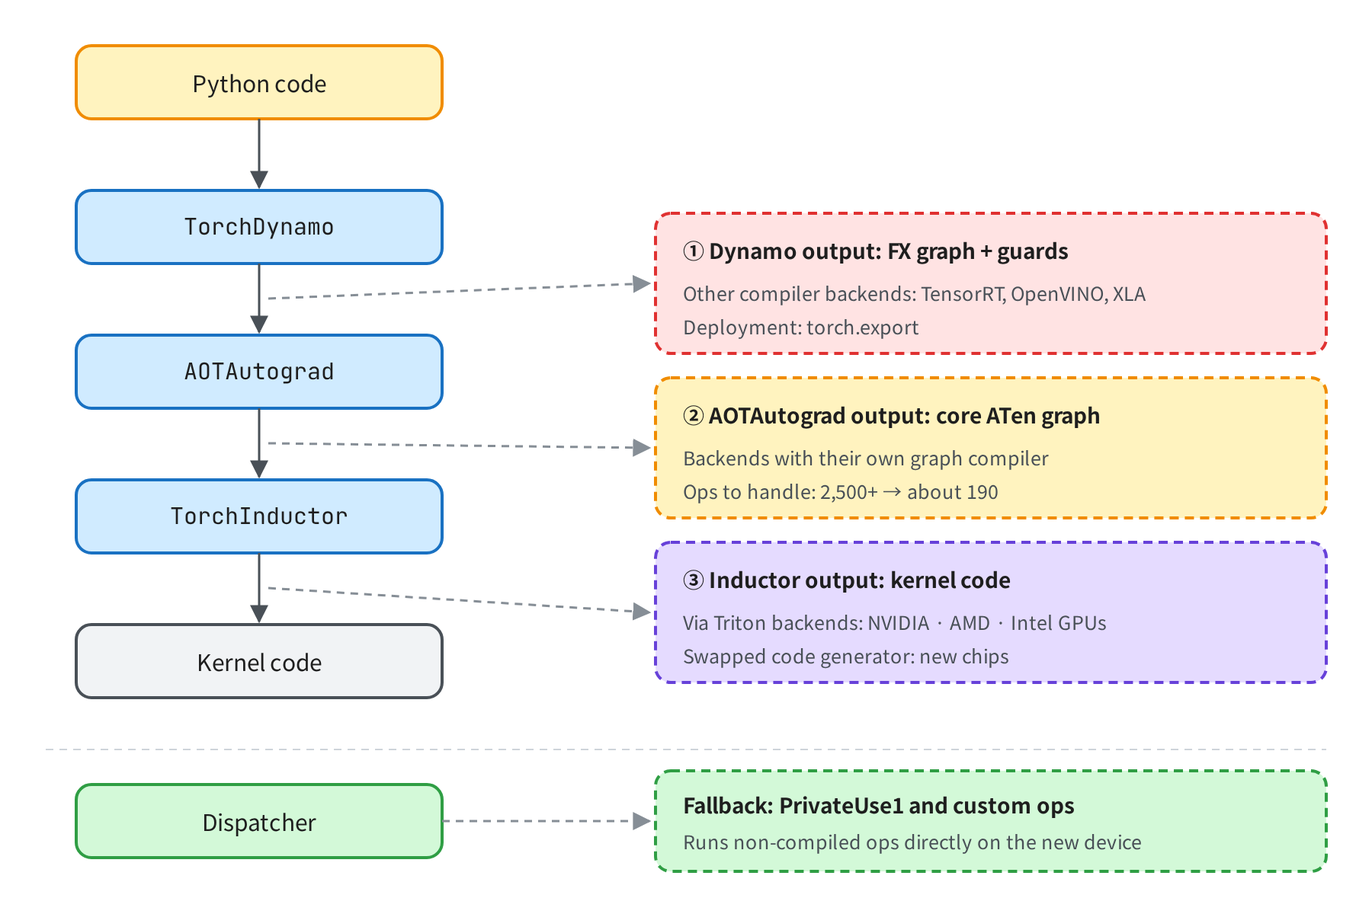
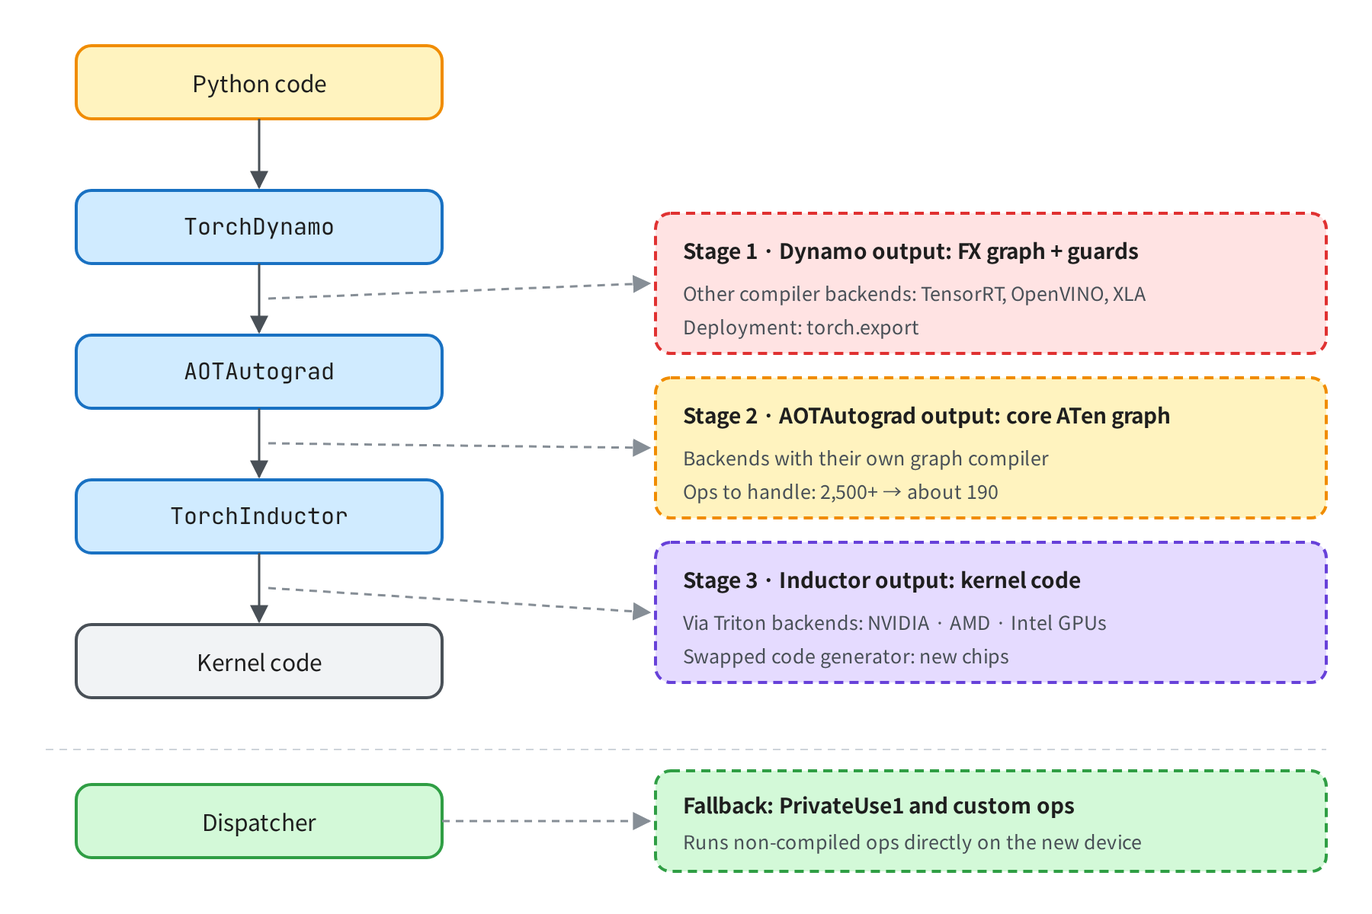
docs: apply review feedback and humanizer pass to torch.compile part 2
- unify stage terminology (경계 -> 단계, boundary -> stage) in text and diagrams
- apply reviewer wording suggestions and split long paragraphs
- reduce AI-style Korean patterns (connective commas, 에 대해, 할 수 있다, -들)

Changed region(s): [[0.4978, 0.2467, 0.84, 0.3083], [0.4978, 0.4317, 0.8711, 0.4625], [0.4978, 0.6167, 0.7778, 0.6475]]

diff --git a/content/posts/torch-compile-anatomy-2/index.en.md b/content/posts/torch-compile-anatomy-2/index.en.md
@@ -12,8 +12,8 @@ tags: ["torch.compile", "PyTorch", "TorchDynamo", "TorchInductor", "AOTAutograd"
 series: ["Exploring torch.compile()"]
 series_idx: 2
 categories: ["AI", "Compiler"]
-summary: 'Why is torch.compile split into Dynamo, AOTAutograd, and Inductor? Starting from how PyTorch grew its ecosystem, we look at who uses each stage boundary, how, and what they gain from it.'
-description: 'An ecosystem view of why torch.compile is split into three stages. We trace how PyTorch drew people in by being as easy to use as plain Python and how it has opened up since 2.0, then look at how compiler backends like TensorRT, OpenVINO, and XLA, torch.export, GPUs, and new AI chips each use the Dynamo, AOTAutograd, and Inductor boundaries. Huawei Ascend, Intel Gaudi, and IBM Spyre are compared along the way.'
+summary: 'Why is torch.compile split into Dynamo, AOTAutograd, and Inductor? Starting from how PyTorch grew its ecosystem, we look at who uses the output of each stage, how, and what they gain from it.'
+description: 'An ecosystem view of why torch.compile is split into three stages. We trace how PyTorch drew people in by being as easy to use as plain Python and how it has opened up since 2.0, then look at how compiler backends like TensorRT, OpenVINO, and XLA, torch.export, GPUs, and new AI chips each use the outputs of the Dynamo, AOTAutograd, and Inductor stages. Huawei Ascend, Intel Gaudi, and IBM Spyre are compared along the way.'
 comments: true
 keywords: [
   "torch.compile", "TorchDynamo", "TorchInductor", "AOTAutograd",
@@ -27,9 +27,9 @@ keywords: [
 
 Hello! I'm Hyunjun Park from the CL (Compute Library) team at HyperAccel. In [Part 1]({{< ref "/posts/torch-compile-anatomy" >}}) we took `torch.compile()` apart into three components: TorchDynamo, AOTAutograd, and TorchInductor (Dynamo and Inductor from here on). Dynamo pulls a graph out of Python code, AOTAutograd tidies that graph up, and Inductor turns the tidied graph into kernels. (Part 1 covers what a graph is, if you need a refresher.)
 
-Part 1 established that `torch.compile()` is made of three main components. This post starts from a question: why did PyTorch bother splitting it into three stages? What do you gain from that split, and who is it for?
+Part 1 explained the three components that make up `torch.compile()`. This post starts from a question: why did PyTorch bother splitting it into three stages? What do you gain from that split, and who is it for?
 
-I think the answer has less to do with technology than with ecosystems. So we'll first look at how PyTorch drew people in and built its ecosystem, and which direction it has been widening that ecosystem since 2.0. Then we'll go through what passes across each stage boundary and who uses each boundary, and how, and close with the cases that use this structure most broadly.
+I think the answer has less to do with technology than with ecosystems. So we'll first look at how PyTorch drew people in and built its ecosystem, and which direction it has been widening that ecosystem since 2.0. Then we'll go through what each of the three stages produces and who uses those results, and how, and close with the cases that use this structure most broadly.
 
 Note that this post mixes what PyTorch has officially stated with my own subjective interpretation. I've marked the interpretive parts with phrases like "I think" or "my reading is," so please keep that in mind as you read.
 
@@ -41,7 +41,9 @@ This series runs to three parts. I'll be attending PyTorch Conference 2026 in Oc
 
 ### Software is an ecosystem game
 
-Think about how you pick a messenger app. What you look at first isn't the feature list; it's **where your friends are**. Even when a new messenger with better features comes out, we end up staying on the one where more people already are. And a messenger with lots of people also gathers features. Gifting, payments, reservations: features that only make sense with lots of users show up, and those features pull in more people. People bring features, and features bring more people. Once that loop gets going, it gets harder and harder for other messengers to win.
+Think about how you pick a messenger app. What you look at first isn't the feature list; it's **where your friends are**. Even when a new messenger with better features comes out, we end up staying on the one where more people already are.
+
+And a messenger with lots of people also gathers features. Gifting, payments, reservations: features that only make sense with lots of users show up, and those features pull in more people. People bring features, and features bring more people. Once that loop gets going, it gets harder and harder for other messengers to win.
 
 Deep learning frameworks work the same way. For users, the rational choice is the framework with the most examples, answered questions, and published models. An environment where one search gets you unstuck is productivity in itself. The same goes for people building libraries and tools: build on the framework with the most users, and your work gets used. For both sides, **choosing what most people already use is the most rational choice.**
 
@@ -49,7 +51,7 @@ Deep learning frameworks work the same way. For users, the rational choice is th
 
 ### How PyTorch drew people in
 
-The framework that spun this loop best is PyTorch. Around 2017, when PyTorch was first released, the leading framework was TensorFlow. In TensorFlow 1.x, writing code didn't compute anything right away. Code like `y = x * 2 + 1` didn't compute anything; it built a graph that said "compute this later," and the actual computation happened only when you opened a session and ran it. So `print(y)` showed graph info instead of a value, you had to learn graph-specific syntax instead of Python's `if`, and when an error occurred it was hard to tell which line caused it. In PyTorch, the same code computes right away.
+The framework that built this kind of ecosystem best is PyTorch. Around 2017, when PyTorch was first released, the leading framework was TensorFlow. In TensorFlow 1.x, writing code didn't compute anything right away. Code like `y = x * 2 + 1` didn't compute anything; it built a graph that said "compute this later," and the actual computation happened only when you opened a session and ran it. So `print(y)` showed graph info instead of a value, you had to learn graph-specific syntax instead of Python's `if`, and when an error occurred it was hard to tell which line caused it. In PyTorch, the same code computes right away.
 
 ```python
 # PyTorch
@@ -86,15 +88,15 @@ In short, instead of building everything itself, PyTorch has been moving toward 
 
 Let's imagine the opposite: `torch.compile()` as a single monolithic compiler that takes Python code and emits Triton code. A team that wants another compiler like TensorRT would have to do graph capture themselves, interpreting bytecode and setting up guards. A company bringing up new hardware would have to rebuild everything from graph capture to code generation. And when PyTorch improved graph capture, outside users wouldn't get the benefit.
 
-Split it into three stages and connect them with **data in a defined format**, though, and the story changes. Whoever needs a given format can pick it up at that boundary, and whoever wants to replace just one stage can keep using the rest as is. You use `torch.compile()` as far as you need, then branch off at the boundary you want and attach your own tool.
+Split it into three stages and connect them with **data in a defined format**, though, and the story changes. Whoever needs a given format can pick up that stage's output, and whoever wants to replace just one stage can keep using the rest as is. You use `torch.compile()` as far as you need, then branch off at the stage you want and attach your own tool.
 
-![The three stages of torch.compile and who uses each boundary. Python code passes through TorchDynamo, AOTAutograd, and TorchInductor to become kernel code. Dynamo's output, an FX graph plus guards, is consumed by other compiler backends such as TensorRT, OpenVINO, and XLA, and by torch.export. AOTAutograd's output, a core ATen graph, is consumed by backends with their own graph compiler. Inductor's output, kernel code, goes to NVIDIA, AMD, and Intel GPUs through Triton backends, or to new chips through a swapped code generator. Underneath, the dispatcher and PrivateUse1 run the ops that aren't compiled (fallback) directly](images/02-three-stages-en.png)
+![The three stages of torch.compile and who uses each stage's output. Python code passes through TorchDynamo, AOTAutograd, and TorchInductor to become kernel code. Dynamo's output, an FX graph plus guards, is consumed by other compiler backends such as TensorRT, OpenVINO, and XLA, and by torch.export. AOTAutograd's output, a core ATen graph, is consumed by backends with their own graph compiler. Inductor's output, kernel code, goes to NVIDIA, AMD, and Intel GPUs through Triton backends, or to new chips through a swapped code generator. Underneath, the dispatcher and PrivateUse1 run the ops that aren't compiled (fallback) directly](images/02-three-stages-en.png)
 
-### Boundary ①: Dynamo's output, for anyone who needs a graph
+### Stage 1, Dynamo's output: for anyone who needs a graph
 
-Dynamo produces an FX graph and guards. PyTorch solved the hardest part, extracting a graph, once, and lets everyone share it.
+Dynamo produces an FX graph and guards. Extracting a graph from Python code is tricky, but Dynamo does it for you, so other tools only need to take its result.
 
-The main users of this boundary are **other compilers**: separate compilers such as NVIDIA's TensorRT (`backend="torch_tensorrt"`), Intel's OpenVINO (`backend="openvino"`), and Google's XLA (`backend="openxla"`) that take a graph and handle everything from optimization to kernel generation. Pass the name to `backend`, and that compiler does what AOTAutograd and Inductor would do, in its own way. Because it decides even how to group ops, it differs from boundary ③, which only changes how the code gets written.
+The main users of Dynamo's output are **other compilers**: separate compilers such as NVIDIA's TensorRT (`backend="torch_tensorrt"`), Intel's OpenVINO (`backend="openvino"`), and Google's XLA (`backend="openxla"`) that take a graph and handle everything from optimization to kernel generation. Pass the name to `backend`, and that compiler does what AOTAutograd and Inductor would do, in its own way. Because it decides even how to group ops, it differs from stage 3, which only changes how the code gets written.
 
 They're used instead of Inductor because they existed before `torch.compile()` and are independent tools tuned for years for their hardware: TensorRT for inference on NVIDIA GPUs, OpenVINO for Intel CPUs and GPUs, and XLA for TPUs, where Triton doesn't run. Handing them the graph is more natural than rebuilding them, and users only change one string.
 
@@ -127,7 +129,7 @@ relu = torch.nn.functional.relu(linear)
 
 The `F.linear` and `F.relu` the user wrote come through as a graph, as written. The receiver doesn't have to interpret Python; it just processes these ops.
 
-### Boundary ②: AOTAutograd's output, fewer ops
+### Stage 2, AOTAutograd's output: fewer ops
 
 Now let's receive the same function after AOTAutograd. Just wrap the `show_graph` from above in `aot_autograd`.
 
@@ -147,11 +149,11 @@ relu = torch.ops.aten.relu.default(addmm)
 
 `linear` has been broken into a transpose (`permute`) and a fused matrix multiply-add (`addmm`), and every op now carries a name from **core ATen**, PyTorch's set of basic ops. This is the decomposition we saw in Part 1.
 
-The value of this boundary is clear from the numbers. PyTorch has more than 2,500 ops counting overloads (as of 2.14), but core ATen has about 190. Take the graph at this boundary and you **only have to handle about 190 ops instead of 2,500-plus.** That's why backends with their own graph compiler usually choose this boundary.
+The value of the graph after this stage is clear from the numbers. PyTorch has more than 2,500 ops counting overloads (as of 2.14), but core ATen has about 190. Take this graph and you **only have to handle about 190 ops instead of 2,500-plus.** That's why backends with their own graph compiler usually take the graph here.
 
-### Boundary ③: Inductor's output, swapping only the code generator
+### Stage 3, Inductor's output: swapping only the code generator
 
-The last boundary sits inside Inductor. Say we compile `y = x * 2 + 1`. Inductor first rewrites the computation as a per-element expression, `y[i] = x[i] * 2 + 1`. Grouping the multiply and the add into one kernel, that is, fusion, is also done at this point. **Which language to write that expression in** is decided at the very end.
+The last one sits inside Inductor. Say we compile `y = x * 2 + 1`. Inductor first rewrites the computation as a per-element expression, `y[i] = x[i] * 2 + 1`. Grouping the multiply and the add into one kernel, that is, fusion, is also done at this point. **Which language to write that expression in** is decided at the very end.
 
 Written for a GPU, it becomes Triton code (key lines only).
 
@@ -171,11 +173,11 @@ auto tmp6 = tmp3 + Vectorized<float>(1.0);           // + 1
 tmp6.store(out_ptr0 + x0);                           // write y[i]
 ```
 
-The two snippets are the same computation written in different languages. The order of reading, multiplying, adding, and writing was already decided by Inductor. Whoever uses this boundary replaces only this **"writing" part** with their own.
+The two snippets are the same computation written in different languages. The order of reading, multiplying, adding, and writing was already decided by Inductor. Whoever uses this stage replaces only this **"writing" part** with their own.
 
 GPU vendors barely need to change even that. The Triton compiler turns the Triton code above into machine code for each GPU, so AMD and Intel GPUs that Triton supports use the same code as is. A new chip that Triton doesn't fit builds a third way of writing it and registers it with `register_backend_for_device`. Then the same `y[i] = x[i] * 2 + 1` comes out in that chip's language.
 
-That said, the way Inductor groups ops was designed around GPUs and CPUs, and this registration API is still private. If the grouping itself has to be decided around the chip, it's better to take the graph at boundary ② and compile it yourself.
+That said, the way Inductor groups ops was designed around GPUs and CPUs, and this registration API is still private. If the grouping itself has to be decided around the chip, it's better to take stage 2's output and compile it yourself.
 
 ### What doesn't get compiled: fallback and PrivateUse1
 
@@ -187,42 +189,42 @@ Ops that aren't in ATen are defined with `torch.library.custom_op`. If you also 
 
 ### At a glance
 
-| Boundary | What it hands over | Who uses it | What they gain |
+| Stage | What it hands over | Who uses it | What they gain |
 | --- | --- | --- | --- |
-| **① Dynamo's output** | A graph of the ops exactly as the user wrote them | Compiler backends like TensorRT, OpenVINO, XLA, plus `torch.export` | No need to interpret Python code |
-| **② AOTAutograd's output** | A graph with only core ATen ops left | Backends with their own graph compiler | Ops to handle drop from 2,500+ to about 190 |
-| **③ Inductor's output** | A per-element expression with grouping already done | GPUs supported by Triton, new chips with a swapped code generator | Only the "writing" part needs to be built |
+| **Stage 1: Dynamo's output** | A graph of the ops exactly as the user wrote them | Compiler backends like TensorRT, OpenVINO, XLA, plus `torch.export` | No need to interpret Python code |
+| **Stage 2: AOTAutograd's output** | A graph with only core ATen ops left | Backends with their own graph compiler | Ops to handle drop from 2,500+ to about 190 |
+| **Stage 3: Inductor's output** | A per-element expression with grouping already done | GPUs supported by Triton, new chips with a swapped code generator | Only the "writing" part needs to be built |
 | **Fallback: the dispatcher** | One op that wasn't compiled (run directly) | Every device | Non-compiled parts still run on that device |
 
 ---
 
 ## Part 3. How chips that aren't GPUs use this structure {#part3}
 
-The companies that use this structure most broadly are the ones building AI chips that aren't GPUs, commonly called **Neural Processing Units (NPUs)**. Triton often doesn't fit them as is, so they have to come in directly at boundary ② or ③, and they have to handle fallback themselves too. Part 3 takes a quick look at three companies that actively use `torch.compile()`.
+The companies that use this structure most broadly are the ones building AI chips that aren't GPUs, commonly called **Neural Processing Units (NPUs)**. Triton often doesn't fit them as is, so they have to come in directly at stage 2 or 3, and they have to handle fallback themselves too. Part 3 takes a quick look at three companies that actively use `torch.compile()`.
 
-### Huawei Ascend: both boundary ② and ③
+### Huawei Ascend: both stage 2 and 3
 
-Huawei's Ascend uses **both boundary ② and ③**. At boundary ②, a backend called TorchAir takes the tidied graph and hands it to Ascend's own graph engine. At boundary ③, it registers an Ascend code generator with Inductor. The device is connected by naming PrivateUse1 `npu`.
+Huawei's Ascend uses **both stage 2 and stage 3**. At stage 2, a backend called TorchAir takes the tidied graph and hands it to Ascend's own graph engine. At stage 3, it registers an Ascend code generator with Inductor. The device is connected by naming PrivateUse1 `npu`.
 
-### Intel Gaudi: boundary ②
+### Intel Gaudi: stage 2
 
-Intel Gaudi uses **boundary ②**. A backend called `hpu_backend` takes the tidied graph and hands it to Gaudi's own graph compiler, without going through Inductor. The `hpu` device isn't PrivateUse1 but a device type built into PyTorch core.
+Intel Gaudi uses **stage 2's output**. A backend called `hpu_backend` takes the tidied graph and hands it to Gaudi's own graph compiler, without going through Inductor. The `hpu` device isn't PrivateUse1 but a device type built into PyTorch core.
 
-### IBM Spyre: boundary ③
+### IBM Spyre: stage 3
 
-IBM's Spyre uses **boundary ③**. It registers a Spyre code generator with Inductor, so the computation Inductor grouped is written out as Spyre code, and IBM's own compiler handles the final step. The device is connected by naming PrivateUse1 `spyre`. Spyre used to bypass Inductor, and according to a [talk abstract](https://pytorchconferenceeu2026.sched.com/event/2Hiqa), moving to boundary ③ let them cut a large part of their own compiler code.
+IBM's Spyre uses **stage 3**. It registers a Spyre code generator with Inductor, so the computation Inductor grouped is written out as Spyre code, and IBM's own compiler handles the final step. The device is connected by naming PrivateUse1 `spyre`. Spyre used to bypass Inductor, and according to a [talk abstract](https://pytorchconferenceeu2026.sched.com/event/2Hiqa), moving to stage 3 let them cut a large part of their own compiler code.
 
 ### Side by side
 
-| | Boundary used | How it connects | Device |
+| | Stage used | How it connects | Device |
 | --- | --- | --- | --- |
 | **Huawei Ascend** | ② + ③ | ②: TorchAir → its own graph engine / ③: code generator registered with Inductor | PrivateUse1 `npu` |
 | **Intel Gaudi** | ② | `hpu_backend` → its own graph compiler | Built-in `hpu` |
 | **IBM Spyre** | ③ | Code generator registered with Inductor → its own compiler | PrivateUse1 `spyre` |
 
-All three reuse boundary ①'s graph capture as is and handle fallback on their own devices. Where they differ is between boundaries ② and ③, that is, **"how many hardware decisions to leave to Inductor."** The more you leave to it, the less you build; the less you leave, the more you decide for your hardware yourself.
+All three reuse stage 1 Dynamo's graph capture as is and handle fallback on their own devices. Where they differ is whether they take the graph at stage 2 or stage 3, that is, **"how many hardware decisions to leave to Inductor."** The more you leave to it, the less you build; the less you leave, the more you decide for your hardware yourself.
 
-For reference, HyperAccel's LPU takes the graph at boundary ② like Gaudi does, and builds kernels with our own language, [Legato]({{< ref "/posts/what-is-legato" >}}). See the [Legato documentation](https://legato-docs.hyperaccel.net/latest/) for details.
+For reference, HyperAccel's LPU takes stage 2's output like Gaudi does, and builds kernels with our own language, [Legato]({{< ref "/posts/what-is-legato" >}}). See the [Legato documentation](https://legato-docs.hyperaccel.net/latest/) for details.
 
 ---
 
@@ -232,9 +234,9 @@ Back to the opening question: why is `torch.compile()` split into three stages? 
 
 The first is technical. Extracting a graph from Python code (Dynamo), cleaning that graph up into standard ops (AOTAutograd), and generating code for hardware (Inductor) are very different jobs. Keeping them separate lets each evolve on its own and makes it easy for other tools to pick up the intermediate results.
 
-The second is about the ecosystem. PyTorch drew in researchers and developers by being as easy to use as plain Python, models and tools piled up on top of it, and it became the de facto standard. When it built `torch.compile()` to tackle the next challenge, speed, PyTorch designed each stage boundary as an entry point for outside compilers and hardware. The official PyTorch 2.0 introduction states the goal of simplifying the backend (compiler) integration experience, and explains that the reduced op set is there to help vendors simplify their integrations. So other compilers like TensorRT come in at boundary ①, those with their own graph compiler at boundary ②, new hardware at boundary ③, and whatever isn't compiled is caught by PrivateUse1.
+The second is about the ecosystem. PyTorch drew in researchers and developers by being as easy to use as plain Python, models and tools piled up on top of it, and it became the de facto standard. When it built `torch.compile()` to tackle the next challenge, speed, PyTorch designed each stage's output so outside compilers and hardware could pick it up. The official PyTorch 2.0 introduction states the goal of simplifying the backend (compiler) integration experience, and explains that the reduced op set is there to help vendors simplify their integrations. So other compilers like TensorRT take stage 1's output, those with their own graph compiler take stage 2's output, new hardware comes in at stage 3, and whatever isn't compiled is caught by PrivateUse1.
 
-And vendors are in fact flocking to these paths. As we saw in Part 3, companies building accelerators beyond GPUs, NPUs in particular, are coming in at whichever boundary suits them, and PyTorch keeps paving those paths with official APIs and documentation release after release. I can't claim this was a strategy PyTorch planned from day one. But in messenger terms, my reading is that a platform with plenty of people opened paths to the outside, new participants are flocking in through them, and the ecosystem is growing beyond GPUs.
+And vendors are in fact flocking to these paths. As we saw in Part 3, companies building accelerators beyond GPUs, NPUs in particular, are coming in at whichever stage suits them, and PyTorch keeps paving those paths with official APIs and documentation release after release. I can't claim this was a strategy PyTorch planned from day one. But in messenger terms, my reading is that a platform with plenty of people opened paths to the outside, new participants are flocking in through them, and the ecosystem is growing beyond GPUs.
 
 Next time, I'll widen the view a little and share what I took away from PyTorch Conference 2026, held October 20–21 in San Jose. Thanks for reading this long post.
 
@@ -244,7 +246,7 @@ Next time, I'll widen the view a little and share what I took away from PyTorch 
 
 - [PyTorch 2.0 release blog](https://pytorch.org/blog/pytorch-2.0-release/) — the launch of `torch.compile()`
 - [Get Started with PyTorch 2.0](https://docs.pytorch.org/get-started/pytorch-2.0/) — the stated goal of simplifying backend integration
-- [Custom Backends](https://docs.pytorch.org/docs/main/user_guide/torch_compiler/torch.compiler_custom_backends.html) — attaching a backend at boundaries ① and ②
+- [Custom Backends](https://docs.pytorch.org/docs/main/user_guide/torch_compiler/torch.compiler_custom_backends.html) — attaching a backend to the output of stages 1 and 2
 - [torch.compiler](https://docs.pytorch.org/docs/2.10/user_guide/torch_compiler/torch.compiler.html) — list of available backends
 - [torch.export](https://docs.pytorch.org/docs/2.14/user_guide/torch_compiler/export.html) — deployment export built on Dynamo graph capture
 - [IRs (Core ATen IR)](https://docs.pytorch.org/docs/stable/user_guide/torch_compiler/torch.compiler_ir.html) — the list of core ATen ops
@@ -256,7 +258,7 @@ Next time, I'll widen the view a little and share what I took away from PyTorch 
 - [PyTorch 2.9 Release Blog](https://pytorch.org/blog/pytorch-2-9/) — LibTorch Stable ABI
 - [PyTorch v2.13.0 Release Notes](https://github.com/pytorch/pytorch/releases/tag/v2.13.0) — `torch.compiler.set_default_backend`
 
-**Compilers and hardware using the boundaries**
+**Compilers and hardware using each stage**
 
 - [TensorRT Backend for torch.compile](https://docs.pytorch.org/TensorRT/user_guide/compilation/torch_compile.html), [PyTorch/XLA TorchDynamo Integration](https://docs.pytorch.org/xla/master/perf/dynamo.html)
 - [Accelerate PyTorch Models using torch.compile on AMD GPUs with ROCm](https://rocm.blogs.amd.com/artificial-intelligence/torch_compile/README.html)
